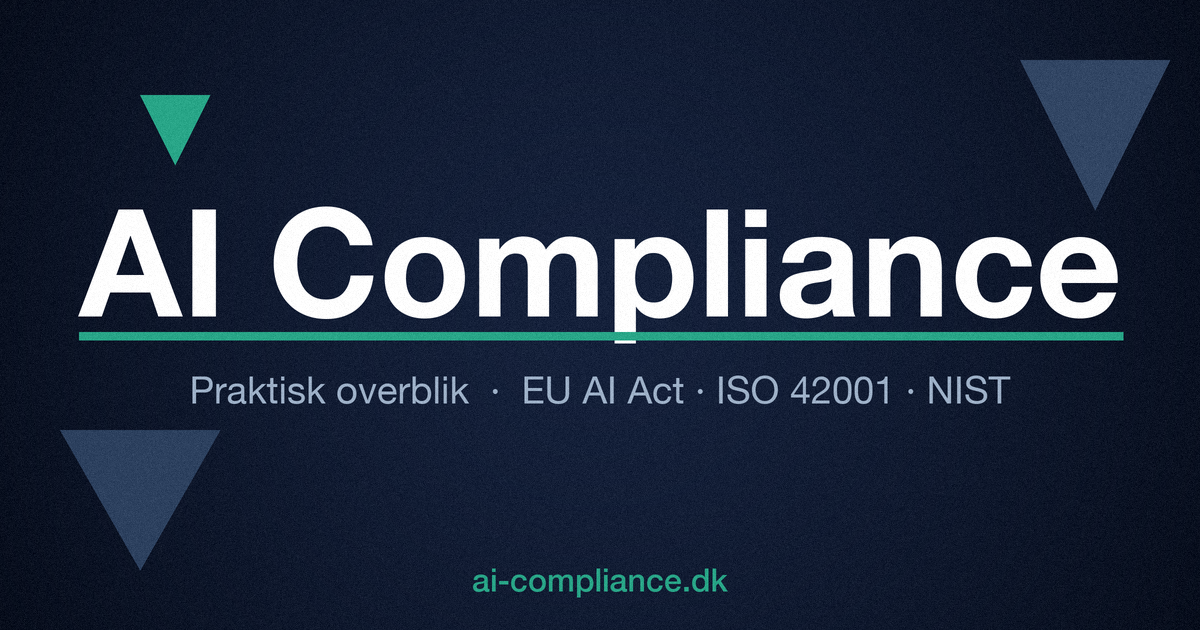
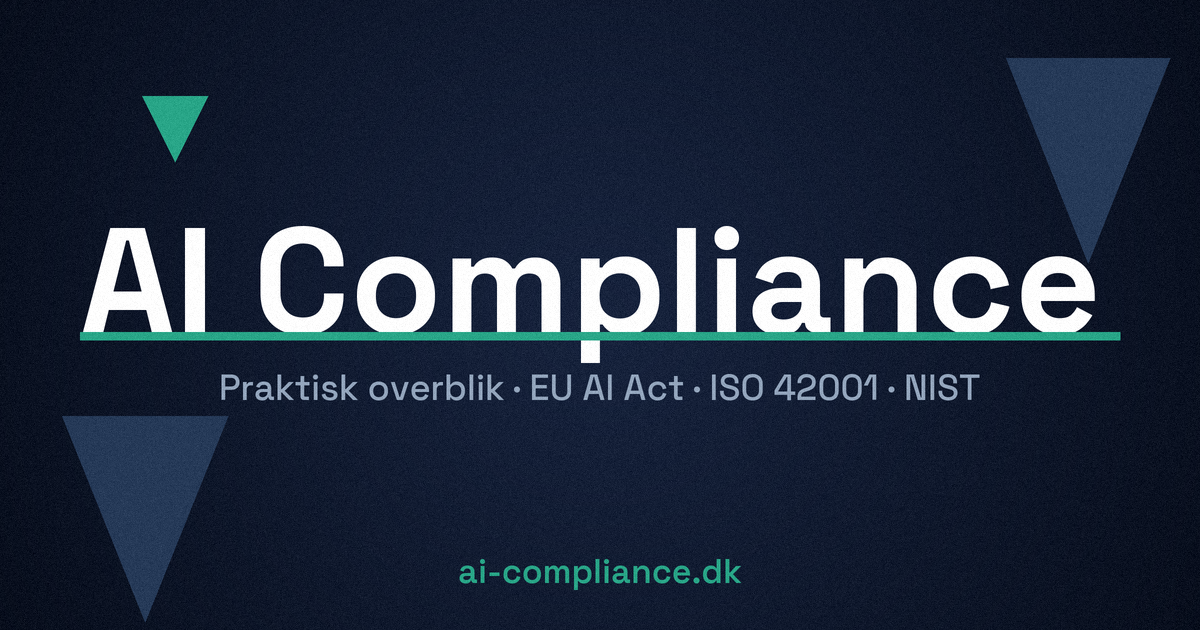
Redesign og-image: consistent Space Grotesk layout, rule no longer covers letters
The governance/sikkerhed og-images had the full-width accent rule cutting
through the title letters — the titles weren't baseline-anchored like
compliance, so the fixed-position rule landed mid-letter. Regenerate all
three from one generator for a consistent, on-brand result:

- Space Grotesk Bold (the site display font), title left-aligned at x=80
  anchored to a fixed baseline → rule sits just under the text on every site
- radial gradient with baked-in luminance dither (JPEG-banding-proof, replaces
  the post-hoc og-dither.py which is now removed)
- centred subtitle + brand-colour domain, accent + slate corner triangles

- scripts/generate_og.py: self-contained, reproducible generator (downloads
  Space Grotesk to a local cache); replaces scripts/og-dither.py
- public/og-image.png: regenerated
- index.html: og:image + twitter:image bumped to ?v=3 for cache-bust

diff --git a/index.html b/index.html
@@ -16,14 +16,14 @@
     <meta property="og:url" content="https://ai-compliance.dk/" />
     <meta property="og:title" content="AI Compliance – Praktisk overblik til danske virksomheder" />
     <meta property="og:description" content="Lovkrav, standarder og drift for AI-compliance i Danmark. EU AI Act, ISO 42001, NIST AI RMF, Datatilsynet. Klar til 2. august 2026." />
-    <meta property="og:image" content="https://ai-compliance.dk/og-image.png?v=2" />
+    <meta property="og:image" content="https://ai-compliance.dk/og-image.png?v=3" />
     <meta property="og:locale" content="da_DK" />
     <meta property="og:site_name" content="AI Compliance" />
 
     <meta name="twitter:card" content="summary_large_image" />
     <meta name="twitter:title" content="AI Compliance – Praktisk overblik til danske virksomheder" />
     <meta name="twitter:description" content="Lovkrav, standarder og drift for AI-compliance i Danmark. Klar til 2. august 2026." />
-    <meta name="twitter:image" content="https://ai-compliance.dk/og-image.png?v=2" />
+    <meta name="twitter:image" content="https://ai-compliance.dk/og-image.png?v=3" />
 
     <script type="application/ld+json">
       {

diff --git a/scripts/generate_og.py b/scripts/generate_og.py
@@ -1,0 +1,128 @@
+#!/usr/bin/env python3
+"""Generate public/og-image.png for the onepager portfolio (consistent across sites).
+
+Layout (1200x630), reproduced identically for every site so they match:
+- radial dark gradient, dithered so it survives social-platform JPEG recompression
+  WITHOUT banding (smooth dark gradients otherwise read as "grainy" in LinkedIn previews)
+- Space Grotesk Bold title, LEFT-aligned at x=80, anchored to a fixed BASELINE so the
+  full-width accent rule sits just under the text on every site (NOT through the letters)
+- centred muted subtitle + centred brand-colour domain
+- decorative downward triangles: small accent (top-left) + two slate (top-right, bottom-left)
+
+Usage:  python3 scripts/generate_og.py [site-key]
+site-key defaults to this repo's site; one of {compliance, sikkerhed, governance}.
+Requires Pillow. Downloads Space Grotesk (OFL) to a local cache on first run.
+Re-run after editing title/subtitle/colour here.
+"""
+import os
+import sys
+import math
+import urllib.request
+from PIL import Image, ImageDraw, ImageFont, ImageChops
+
+# This repo's site (override via argv[1]):
+DEFAULT_SITE = "compliance"
+
+FONT_URL = "https://github.com/google/fonts/raw/main/ofl/spacegrotesk/SpaceGrotesk%5Bwght%5D.ttf"
+FONT_CACHE = os.path.expanduser("~/.cache/onepager-og/SpaceGrotesk.ttf")
+
+W, H, SS = 1200, 630, 2
+MARGIN = 80
+BASELINE = 333
+RULE_TOP, RULE_BOT = 332, 340
+SUB_BASE, DOM_BASE = 400, 583
+WHITE = (255, 255, 255)
+SUBTITLE = (148, 166, 189)
+SLATE = (38, 58, 88)
+BG_CENTER, BG_EDGE = (23, 35, 61), (8, 14, 28)
+
+SITES = {
+    "compliance": dict(title="AI Compliance", accent=(41, 166, 136),
+                        subtitle="Praktisk overblik · EU AI Act · ISO 42001 · NIST",
+                        domain="ai-compliance.dk"),
+    "sikkerhed":  dict(title="AI Sikkerhed", accent=(245, 158, 11),
+                        subtitle="AI Risici · MIT AI Risk Repository · OWASP",
+                        domain="ai-sikkerhed.dk"),
+    "governance": dict(title="AI Governance", accent=(60, 120, 230),
+                        subtitle="Organisering · Udvikling · Drift",
+                        domain="ai-governance.dk"),
+}
+
+
+def font_path():
+    if not os.path.exists(FONT_CACHE):
+        os.makedirs(os.path.dirname(FONT_CACHE), exist_ok=True)
+        print("downloading Space Grotesk …")
+        urllib.request.urlretrieve(FONT_URL, FONT_CACHE)
+    return FONT_CACHE
+
+
+def load(fp, size, wght):
+    f = ImageFont.truetype(fp, size)
+    try:
+        f.set_variation_by_axes([wght])
+    except Exception:
+        pass
+    return f
+
+
+def lerp(a, b, t):
+    return tuple(round(a[i] + (b[i] - a[i]) * t) for i in range(3))
+
+
+def radial_bg(w, h):
+    gw, gh = w // 4, h // 4
+    g = Image.new("RGB", (gw, gh)); gp = g.load()
+    cx, cy = gw / 2, gh / 2; maxd = math.hypot(cx, cy)
+    for y in range(gh):
+        for x in range(gw):
+            d = min(1.0, (math.hypot(x - cx, y - cy) / maxd) ** 1.15)
+            gp[x, y] = lerp(BG_CENTER, BG_EDGE, d)
+    return g.resize((w, h), Image.BILINEAR)
+
+
+def tri(d, x0, y0, w, h, fill):
+    d.polygon([(x0, y0), (x0 + w, y0), (x0 + w / 2, y0 + h)], fill=fill)
+
+
+def fit_size(fp, text, target_w, hi=200):
+    lo, best = 40, 40
+    while lo <= hi:
+        mid = (lo + hi) // 2
+        if load(fp, mid, 700).getbbox(text)[2] <= target_w:
+            best, lo = mid, mid + 1
+        else:
+            hi = mid - 1
+    return best
+
+
+def main():
+    key = sys.argv[1] if len(sys.argv) > 1 else DEFAULT_SITE
+    s = SITES[key]; accent = s["accent"]
+    fp = font_path()
+
+    # One title size shared by all sites (the size that fits the widest title).
+    size = min(fit_size(fp, st["title"], W - 2 * MARGIN) for st in SITES.values())
+
+    img = radial_bg(W * SS, H * SS)
+    d = ImageDraw.Draw(img, "RGBA")
+    def S(v): return v * SS
+
+    tri(d, S(142), S(96), S(66), S(66), accent)
+    tri(d, S(1006), S(58), S(164), S(205), SLATE)
+    tri(d, S(62), S(416), S(166), S(206), SLATE)
+
+    d.text((S(MARGIN), S(BASELINE)), s["title"], font=load(fp, size * SS, 700), fill=WHITE, anchor="ls")
+    d.rectangle([S(MARGIN), S(RULE_TOP), S(W - MARGIN), S(RULE_BOT)], fill=accent)
+    d.text((S(W / 2), S(SUB_BASE)), s["subtitle"], font=load(fp, 36 * SS, 500), fill=SUBTITLE, anchor="ms")
+    d.text((S(W / 2), S(DOM_BASE)), s["domain"], font=load(fp, 34 * SS, 600), fill=accent, anchor="ms")
+
+    img = img.resize((W, H), Image.LANCZOS)
+    noise = Image.merge("RGB", [Image.effect_noise((W, H), 4)] * 3)
+    img = ImageChops.add(img.convert("RGB"), noise, 1.0, -128)
+    img.save("public/og-image.png", "PNG", optimize=True)
+    print(f"✓ {key} -> public/og-image.png (title size {size})")
+
+
+if __name__ == "__main__":
+    main()